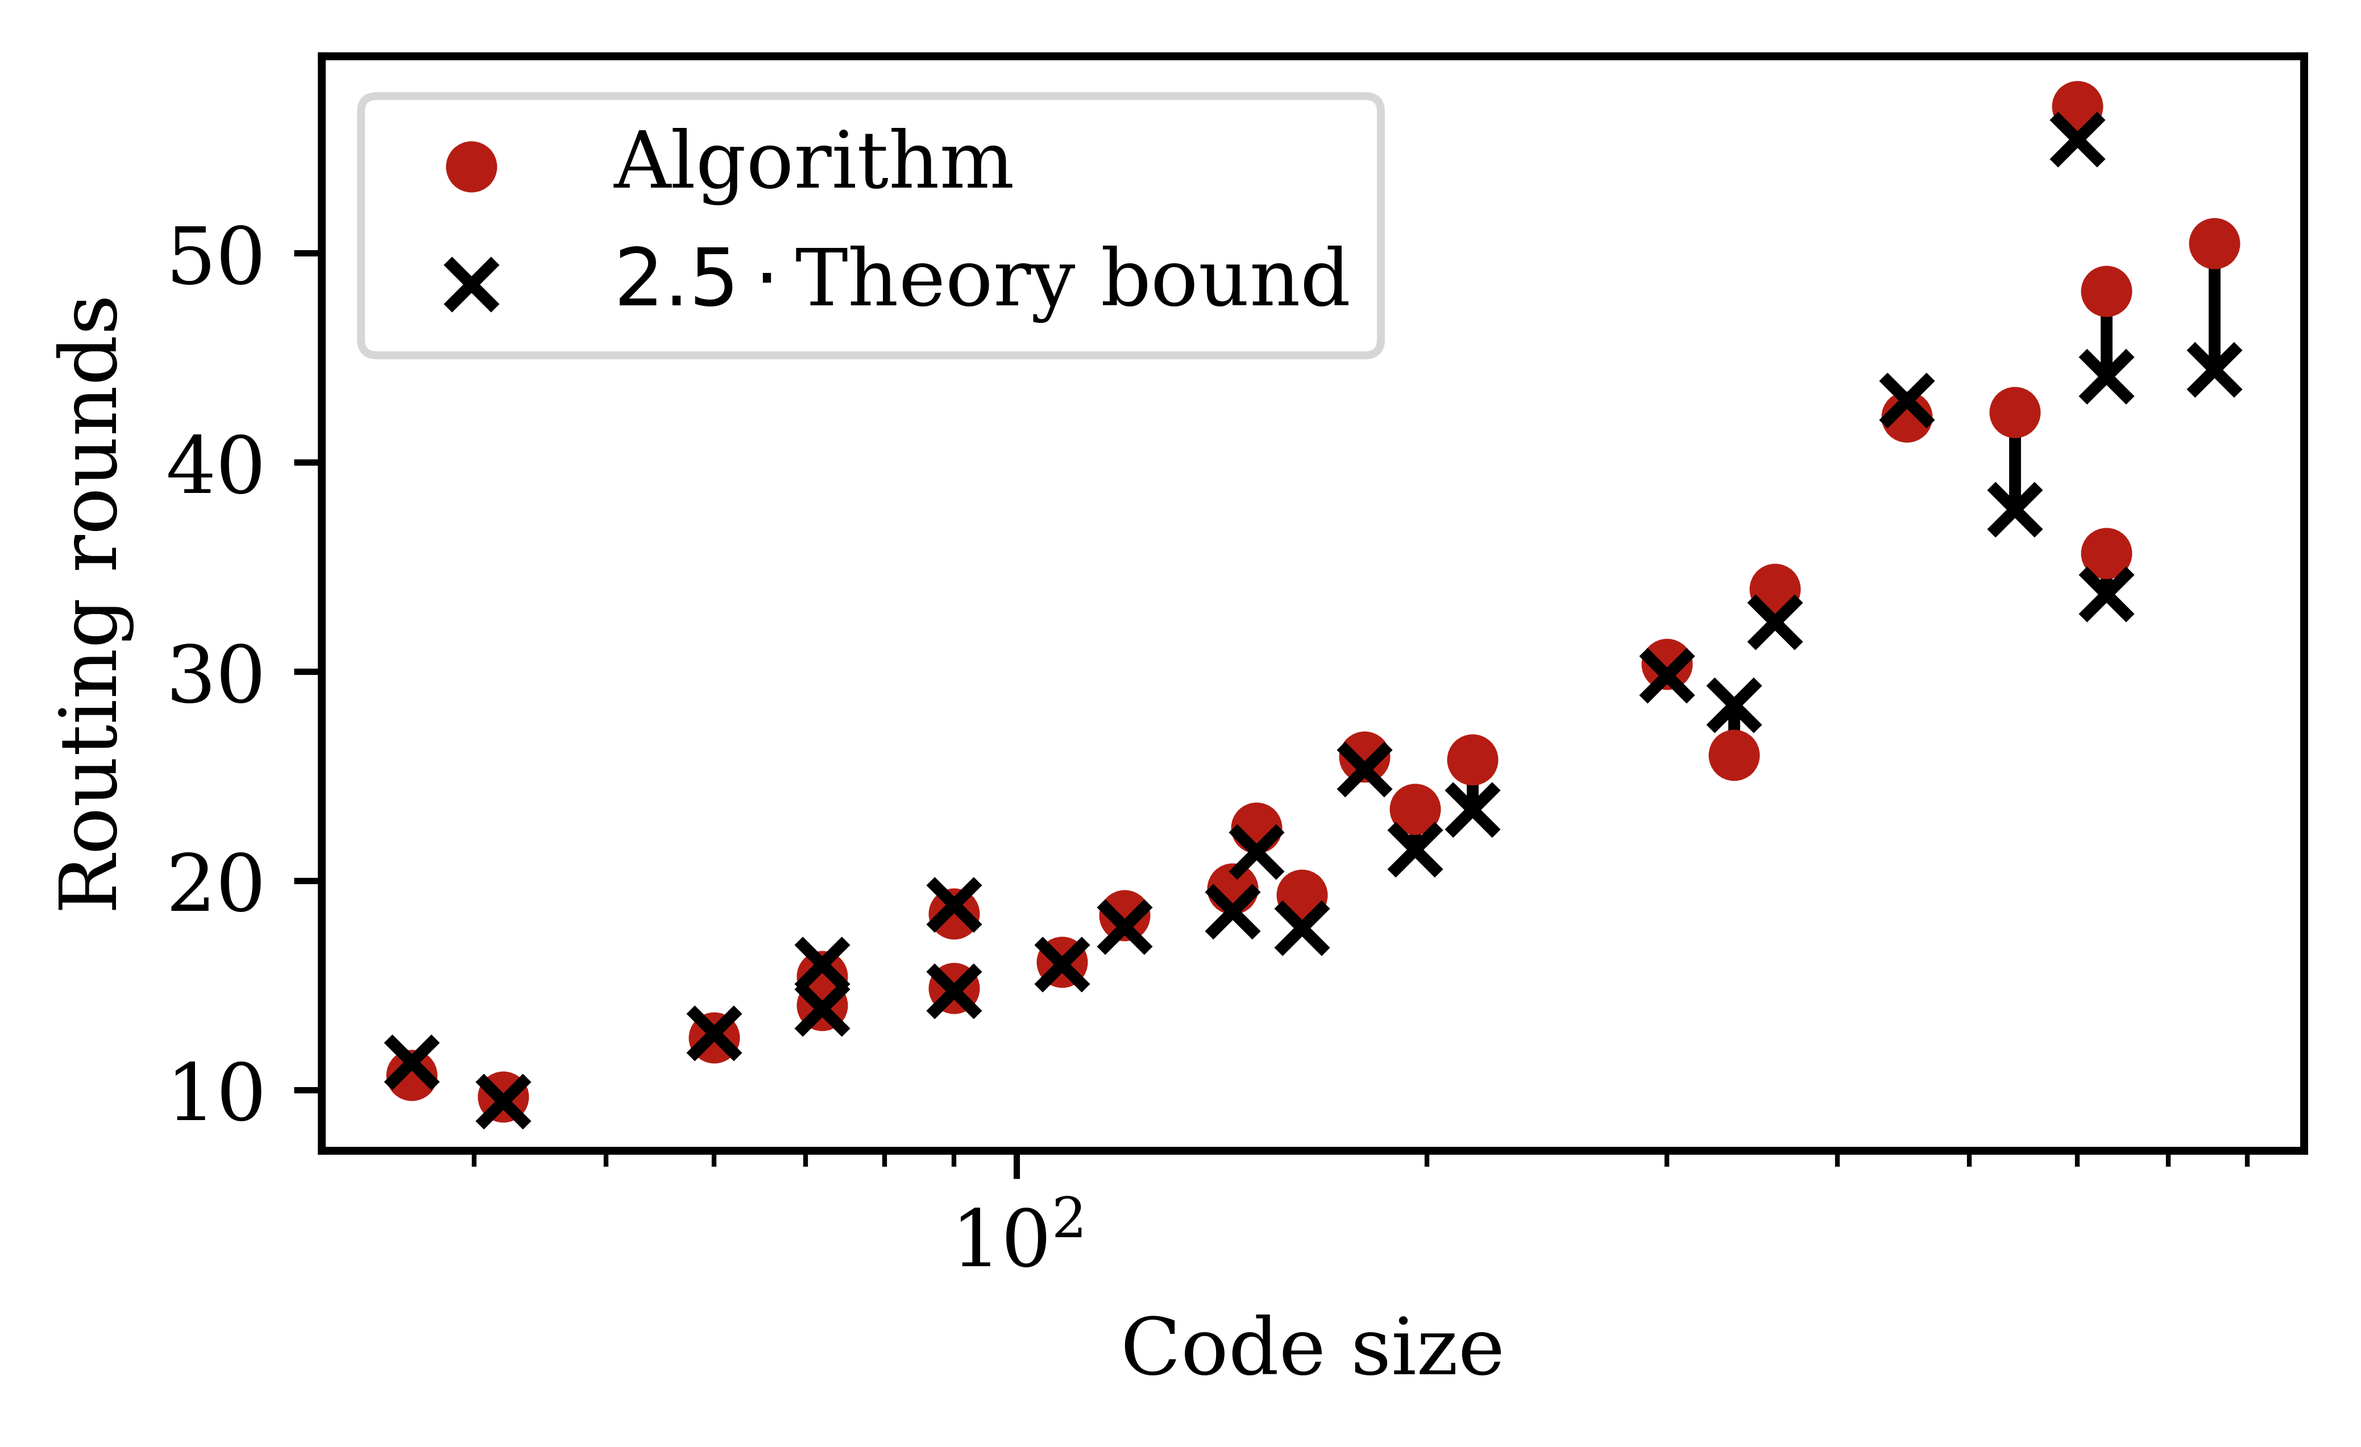
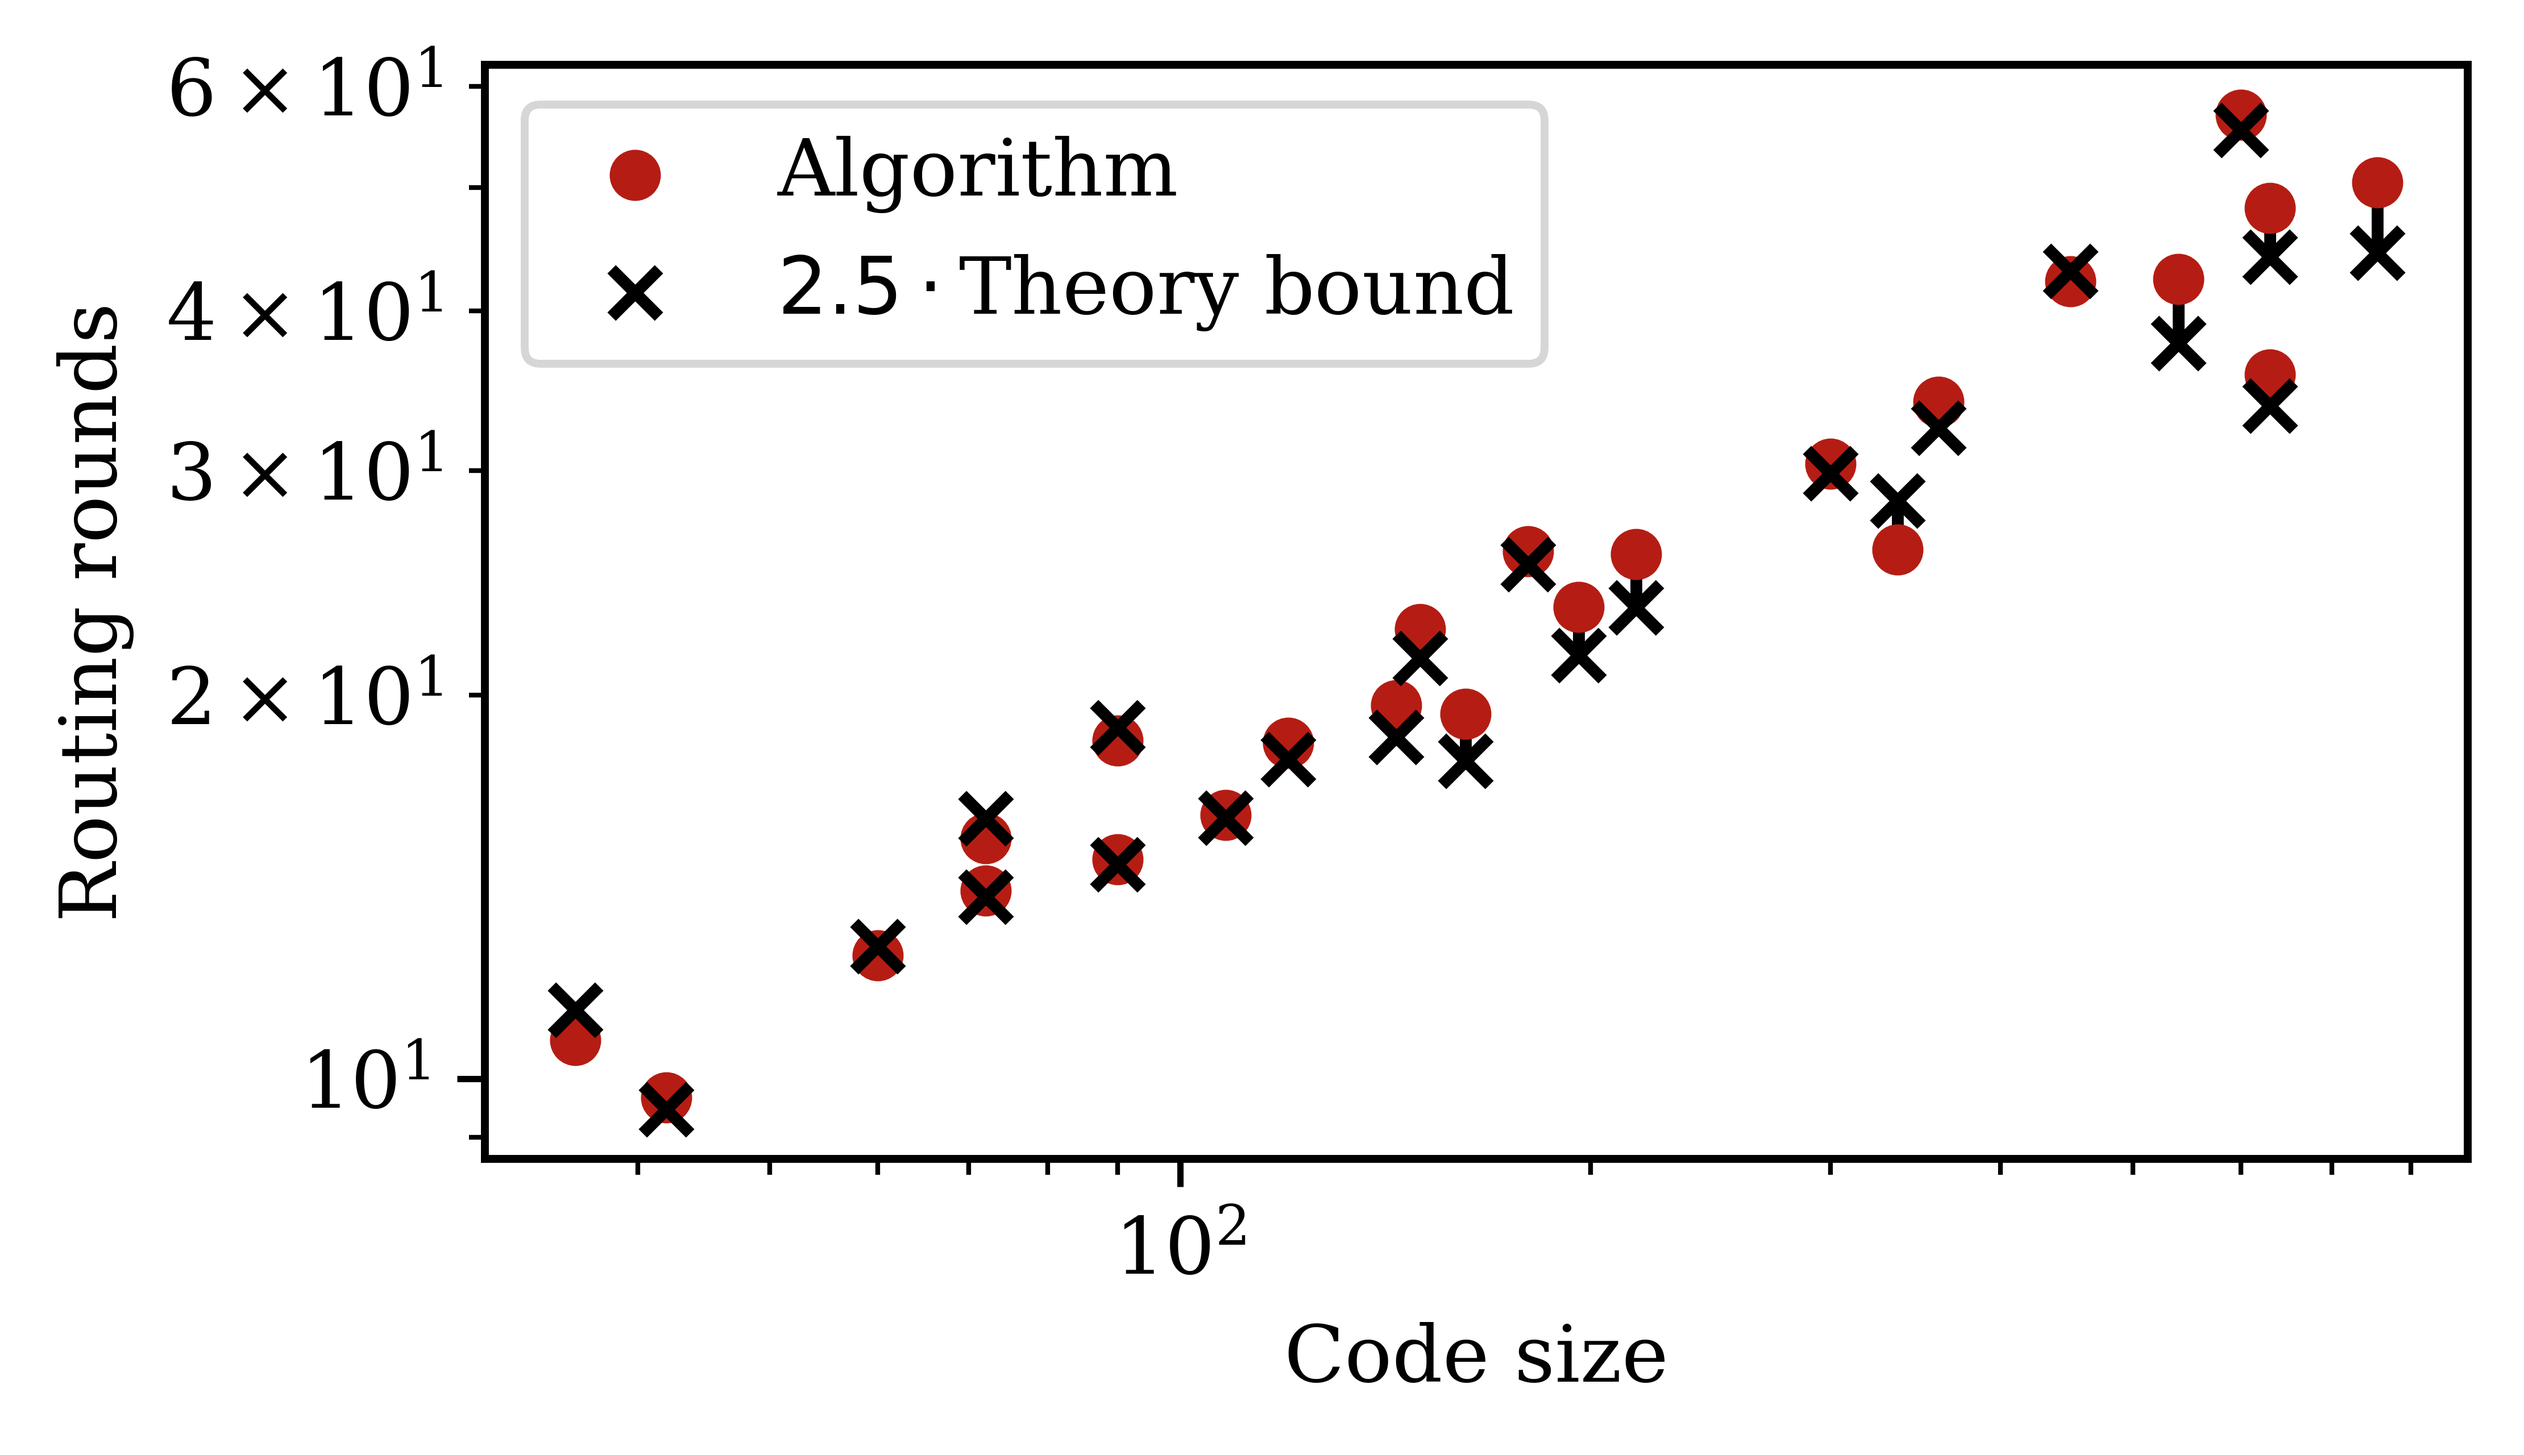
added requirements.txt

diff --git a/figures/figure_scripts/routing_algo.py b/figures/figure_scripts/routing_algo.py
@@ -89,6 +89,7 @@ plt.scatter(code_sizes, res[:,3], c=red, marker='o', s=30, label="Algorithm")
 plt.scatter(code_sizes, 2.5*res[:,2], c='k', marker='x', label="$2.5\cdot$"+"Theory bound")
 
 plt.xscale('log')
+plt.yscale('log')
 plt.legend(loc="upper left")
 plt.xlabel("Code size")
 plt.ylabel("Routing rounds")

diff --git a/README.md b/README.md
@@ -8,7 +8,7 @@
 Geometric locality is an important theoretical and practical factor for quantum low-density parity-check (qLDPC) codes which affects code performance and ease of physical realization. For device architectures restricted to 2D local gates, naively implementing the high-rate codes suitable for low-overhead fault-tolerant quantum computing incurs prohibitive overhead. In this work, we present an error correction protocol built on a bilayer architecture that aims to reduce operational overheads when restricted to 2D local gates by measuring some generators less frequently than others. We investigate the family of bivariate bicycle qLDPC codes and show that they are well suited for a parallel syndrome measurement scheme using fast routing with local operations and classical communication (LOCC). Through circuit-level simulations, we find that in some parameter regimes bivariate bicycle codes implemented with this protocol have logical error rates comparable to the surface code while using fewer physical qubits.
 
 ### Description
-This repository includes information, code, and data to generate the figures in the paper.
+This repository includes information, code, and data to generate the figures in the paper. To install the required Python packages use `pip install -r requirements.txt`.
 
 ### Figures
 All the codes used to create the figures in the paper are found in the `/figures/figure_scripts` folder. They are all written in Python, and use the matplotlib library. Files used to draw certain figures in the paper can be found in the `/figures/figure_svgs` folder.
